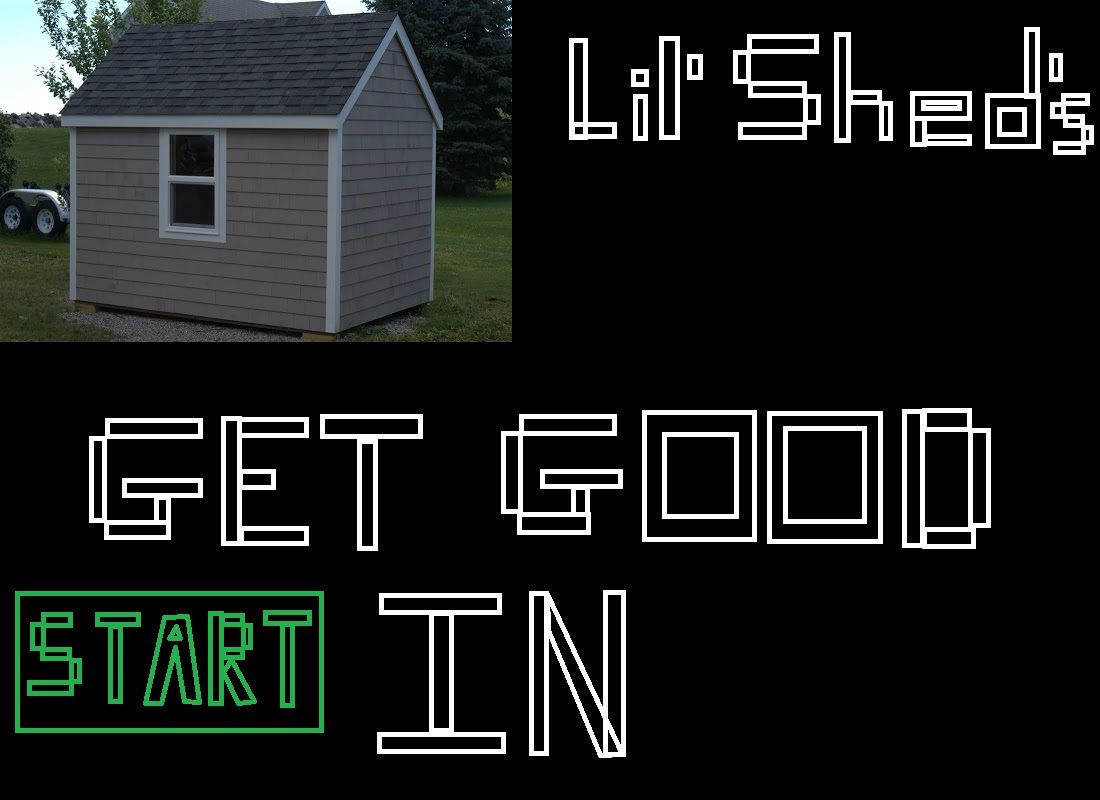
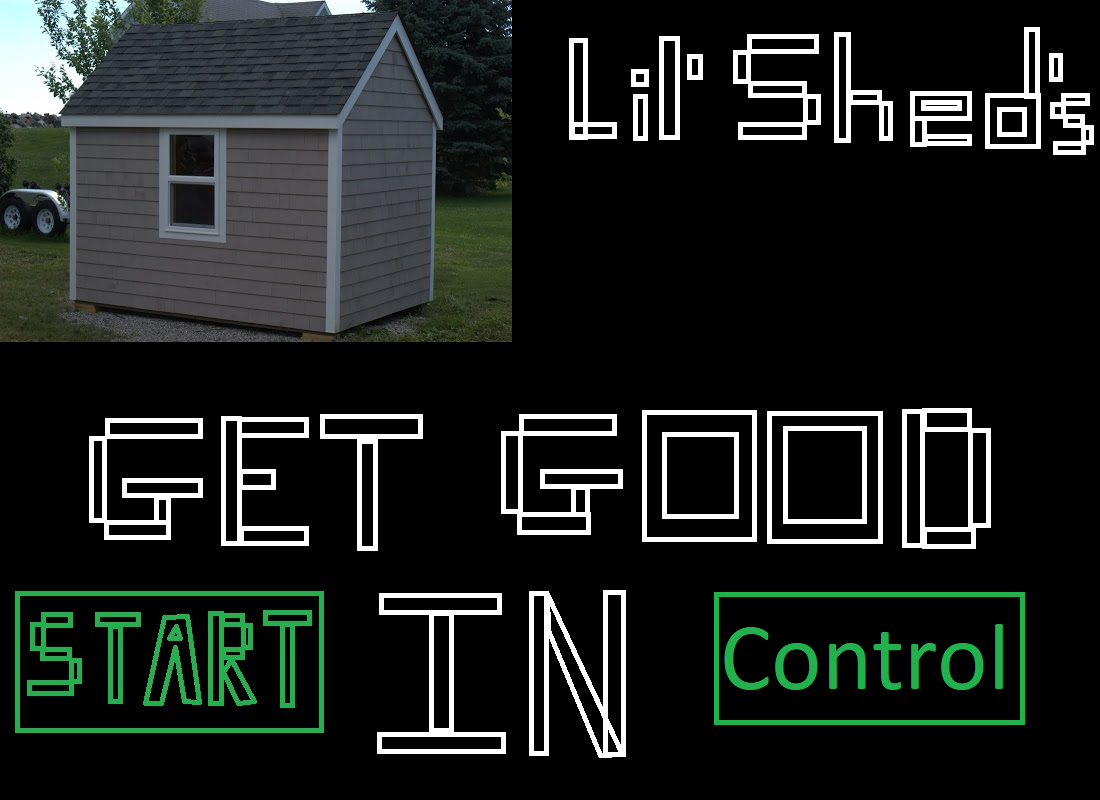
Added control state implementation

Changed region(s): [[0.6491, 0.7188, 0.9582, 0.9062]]

diff --git a/states/MainMenuState.py b/states/MainMenuState.py
@@ -10,7 +10,6 @@ class MainMenuState(State):
         self.handler = handler
 
     def update(self, screen):
-        # TODO Add control screen
 
         for event in pygame.event.get():
             if event.type == pygame.QUIT:
@@ -20,3 +19,6 @@ class MainMenuState(State):
 
         if (14 < pygame.mouse.get_pos()[0] < 323 and pygame.mouse.get_pressed()[0]) and (590 < pygame.mouse.get_pos()[1] < 740 and pygame.mouse.get_pressed()[0]):
             self.handler.getStateManager().setCurrentState("GameState")
+
+        if (7 < pygame.mouse.get_pos()[0] < 1024 and pygame.mouse.get_pressed()[0]) and (591 < pygame.mouse.get_pos()[1] < 725 and pygame.mouse.get_pressed()[0]):
+            self.handler.getStateManager().setCurrentState("ControlState")

diff --git a/main.py b/main.py
@@ -39,7 +39,7 @@ handler = Handler(attackUpdateList, stateManager)
 # State Declaration
 stateDict = {
     "GameState": GameState("GameState", level, screen, handler, attackUpdateList),
-    "ControlState": ControlState("ControlState"),
+    "ControlState": ControlState("ControlState", handler),
     "EndGameState": EndGameState("EndGameState"),
     "MainMenuState": MainMenuState("MainMenuState", mainMenu, handler),
     "MapSelectionState": MapSelectionState("MapSelectionState"),

diff --git a/states/ControlState.py b/states/ControlState.py
@@ -1,10 +1,15 @@
+import pygame
 from states.State import State
 
 
 class ControlState(State):
 
-    def __init__(self, name):
+    def __init__(self, name, handler):
         super().__init__(name)
+        self.handler = handler
 
     def update(self, screen):
-        pass
+
+        for event in pygame.event.get():
+            if event.type == pygame.QUIT:
+                self.handler.setDone(True)
